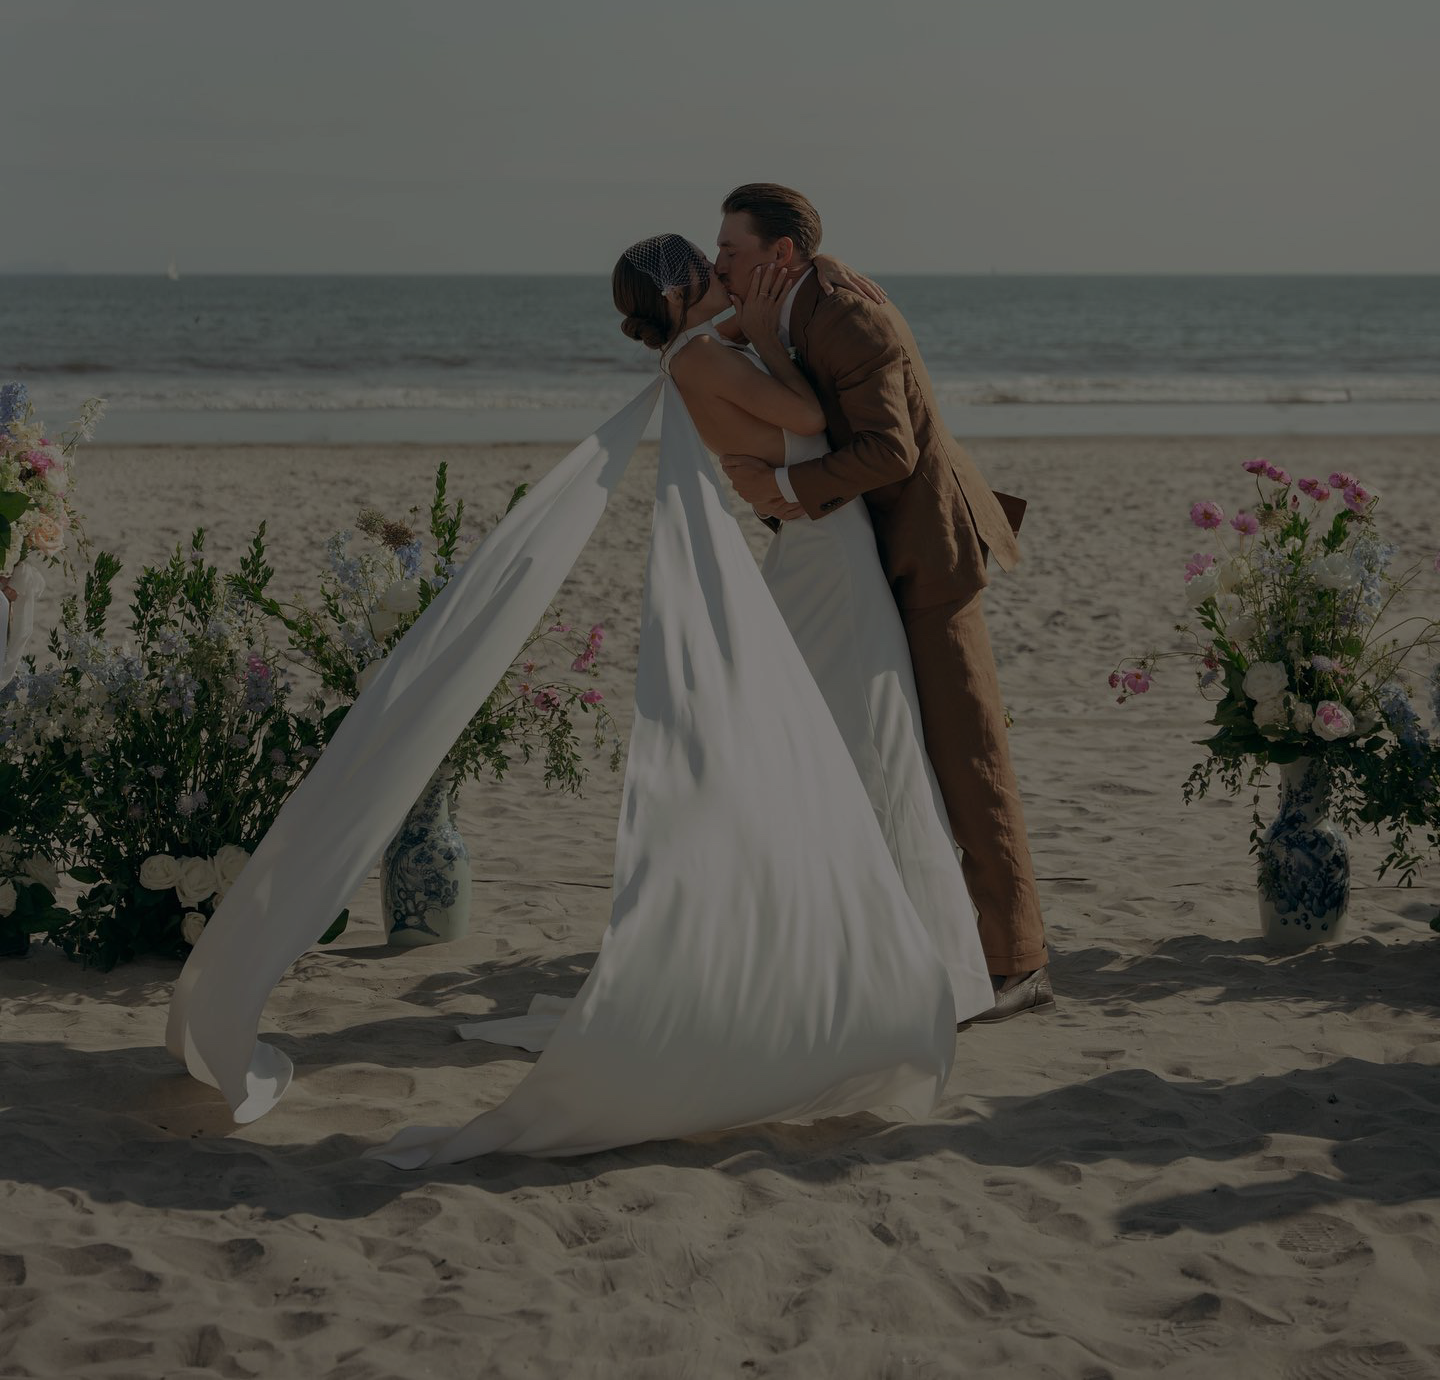
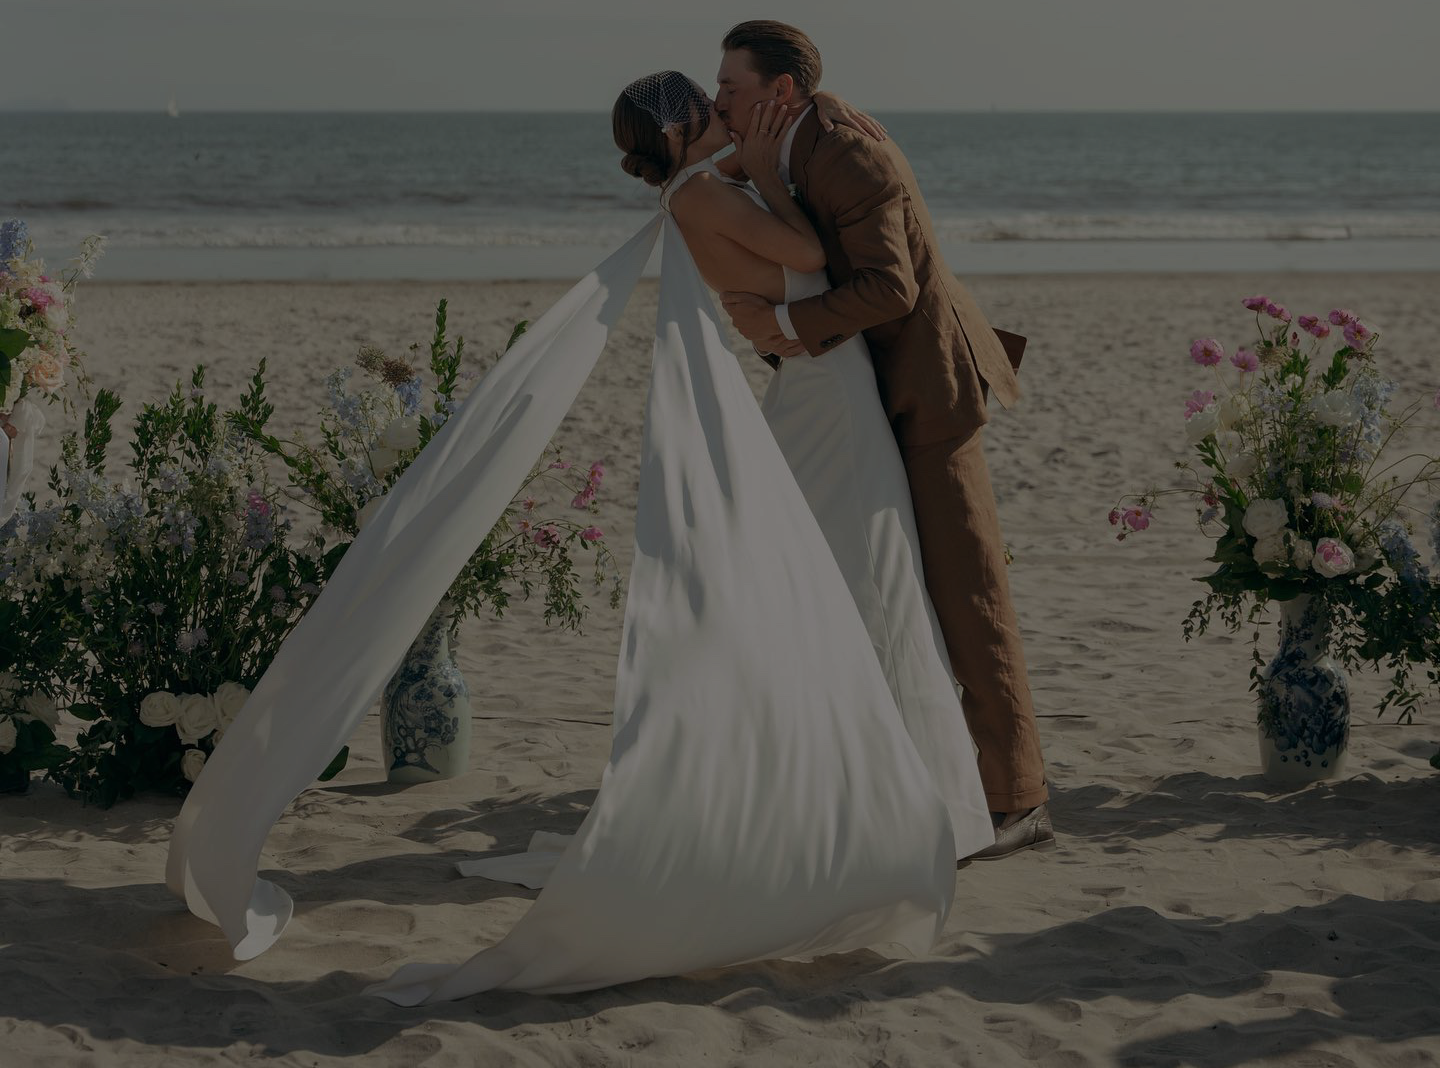
add background image to hero

diff --git a/src/slices/HomepageHero/index.tsx b/src/slices/HomepageHero/index.tsx
@@ -42,12 +42,18 @@ const HomepageHero: FC<HomepageHeroProps> = ({ slice }) => {
   }
 
   return (
-    <Bounded data-slice-type={slice.slice_type} data-slice-variation={slice.variation} >
-      <PrismicRichText field={slice.primary.main_heading} components={components}/>
-      <PrismicRichText field={slice.primary.short_text} components={components}/>
-      {slice.primary.link.map((link, i) => (
-        <Button key={link.key} field={link} color={getButtonColor(i)} className={`${moduleStyles.button}`} />
-      ))}
+    <Bounded data-slice-type={slice.slice_type} data-slice-variation={slice.variation} className={`${moduleStyles.heroContainer}`}>
+      <section>
+        <PrismicRichText field={slice.primary.main_heading} components={components}/>
+      </section>
+      <section>
+        <PrismicRichText field={slice.primary.short_text} components={components}/>
+        <div>
+          {slice.primary.link.map((link, i) => (
+            <Button key={link.key} field={link} color={getButtonColor(i)} className={`${moduleStyles.button}`} />
+          ))}
+        </div>
+      </section>
     </Bounded>
   );
 };

diff --git a/src/slices/HomepageHero/styles.module.css b/src/slices/HomepageHero/styles.module.css
@@ -1,3 +1,11 @@
+.heroContainer {
+   height: 35rem;
+   background-image: url('/couple-beach-main-dark-cropped.png');
+   background-size: cover;
+   background-repeat: no-repeat;
+   color: var(--cream-200);
+}
+
 .button {
    width: 8rem;
 }
